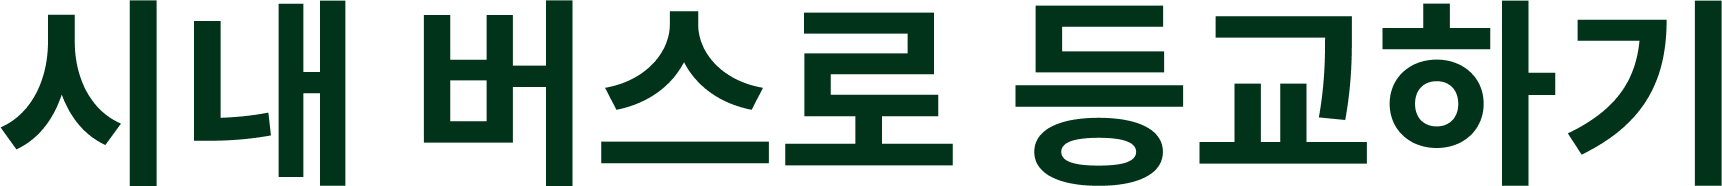
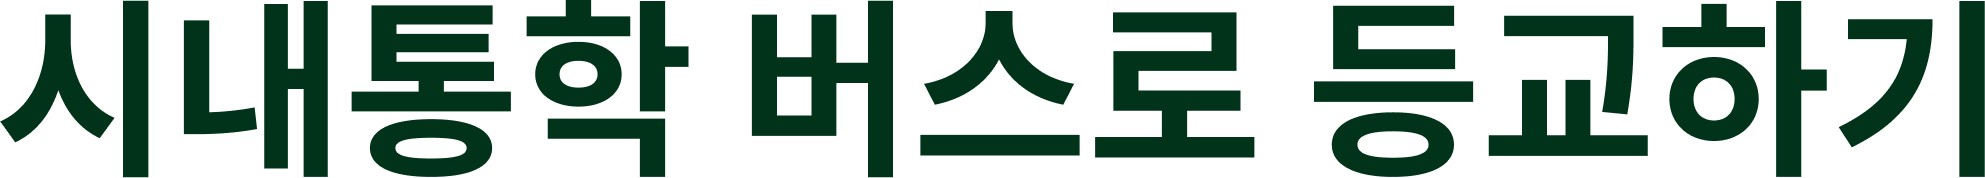
Changed Citybus name

diff --git a/src/components/MainHome.vue b/src/components/MainHome.vue
@@ -4,13 +4,13 @@
   </v-row>
   <v-row>
     <v-hover v-slot="{ isHovering, props }">
-      <v-card v-bind="props" :style="MainHomeCards(isHovering, 'right')" @click="gotoshuttle()">
-        <v-img :style="MainHomeLeftCardImage()" :src="shuttlebus"/>
+      <v-card v-bind="props" :style="MainHomeCards(isHovering, 'right')" @click="gotocity()">
+        <v-img :style="MainHomeLeftCardImage()" :src="citybus"/>
       </v-card>
     </v-hover>
     <v-hover v-slot="{ isHovering, props }">
-      <v-card v-bind="props" :style="MainHomeCards(isHovering, 'left')" @click="gotocity()">
-        <v-img :style="MainHomeRightCardImage()" :src="citybus"/>
+      <v-card v-bind="props" :style="MainHomeCards(isHovering, 'left')" @click="gotoshuttle()">
+        <v-img :style="MainHomeRightCardImage()" :src="shuttlebus"/>
       </v-card>
     </v-hover>
   </v-row>
@@ -24,7 +24,7 @@ export default {
     return {
       slogan: new URL('/src/assets/slogan.png', import.meta.url).href,
       shuttlebus: new URL('/src/assets/shuttlebus.png', import.meta.url).href,
-      citybus: new URL('/src/assets/citybus.png', import.meta.url).href,
+      citybus: new URL('/src/assets/Citybus.png', import.meta.url).href,
     };
   },
   methods: {
@@ -49,15 +49,15 @@ export default {
     },
     MainHomeLeftCardImage(){
       return{
-        top: '60px',
-        width: '180px',
+        top: '50px',
+        width: '150px',
         margin: 'auto'
       };
     },
     MainHomeRightCardImage(){
       return{
         top: '60px',
-        width: '150px',
+        width: '170px',
         margin: 'auto'
       };
     }

diff --git a/src/components/Citybus/CitybusGoSchool.vue b/src/components/Citybus/CitybusGoSchool.vue
@@ -2,12 +2,36 @@
   <v-layout>
     <v-card :style="CitybusGoSchoolCard()">
       <v-img :style="CitybusGoSchoolTitle()" :src="CitybusGoSchool"/>
+      <hr style="margin-top: 60px">
+      <v-toolbar>
+        <v-container style="margin-right: 500px;">
+          <v-row align="center" justify="center">
+            <v-col cols="auto">
+              <v-btn density="comfortable">1번</v-btn>
+            </v-col>
+
+            <v-col cols="auto">
+              <v-btn density="comfortable">2번</v-btn>
+            </v-col>
+
+            <v-col cols="auto">
+              <v-btn density="comfortable">3번</v-btn>
+            </v-col>
+            <v-col cols="auto">
+              <v-btn density="comfortable">4번</v-btn>
+            </v-col>
+          </v-row>
+        </v-container>
+      </v-toolbar>
+      <kakao-map/>
     </v-card>
+
+
   </v-layout>
 </template>
 
 <style>
-body {
+body{
   background-image: url('../../assets/MainHome.png');
   background-size: cover;
   width: auto;
@@ -16,7 +40,12 @@ body {
 </style>
 
 <script>
+
+
+import KakaoMap from "../../KaKaoMap.vue";
+
 export default {
+  components: {KakaoMap},
   data() {
     return {
       CitybusGoSchool: new URL(`/src/assets/CitybusGoSchool.png`, import.meta.url).href

diff --git a/src/components/Appbar.vue b/src/components/Appbar.vue
@@ -5,10 +5,10 @@
         <v-img :style="ClickUNIBUS()" :src="UNIBUS"/>
       </text>
       <v-hover v-slot="{ isHovering, props }">
-        <text v-bind="props" @click="gotoshuttle()" :style="HoverTexts(isHovering)">셔틀버스</text>
+        <text v-bind="props" @click="gotocity()" :style="HoverTexts(isHovering)">시내통학버스</text>
       </v-hover>
       <v-hover v-slot="{ isHovering, props }">
-        <text v-bind="props" @click="gotocity()" :style="HoverTexts(isHovering)">시내버스</text>
+        <text v-bind="props" @click="gotoshuttle()" :style="HoverTexts(isHovering)">셔틀버스</text>
       </v-hover>
       <v-menu open-on-hover>
         <template v-slot:activator="{ props: activatorProps }">
@@ -42,7 +42,7 @@
 
 <script>
 import router from "../router.js";
-import {mergeProps} from "vue";
+import {mergeProps} from "vue"
 
 export default {
   data() {

diff --git a/src/components/Shuttlebus/ShuttlebusGoSchool.vue b/src/components/Shuttlebus/ShuttlebusGoSchool.vue
@@ -13,13 +13,6 @@
             <v-col cols="auto">
               <v-btn density="comfortable">2번</v-btn>
             </v-col>
-
-            <v-col cols="auto">
-              <v-btn density="comfortable">3번</v-btn>
-            </v-col>
-            <v-col cols="auto">
-              <v-btn density="comfortable">4번</v-btn>
-            </v-col>
           </v-row>
         </v-container>
       </v-toolbar>

diff --git a/src/components/Citybus/course1.vue b/src/components/Citybus/course1.vue
@@ -1,0 +1,11 @@
+<template>
+
+</template>
+
+<style scoped>
+
+</style>
+
+<script setup>
+
+</script>

diff --git a/src/components/Citybus/course4.vue b/src/components/Citybus/course4.vue
@@ -1,0 +1,11 @@
+<script setup>
+
+</script>
+
+<template>
+
+</template>
+
+<style scoped>
+
+</style>
